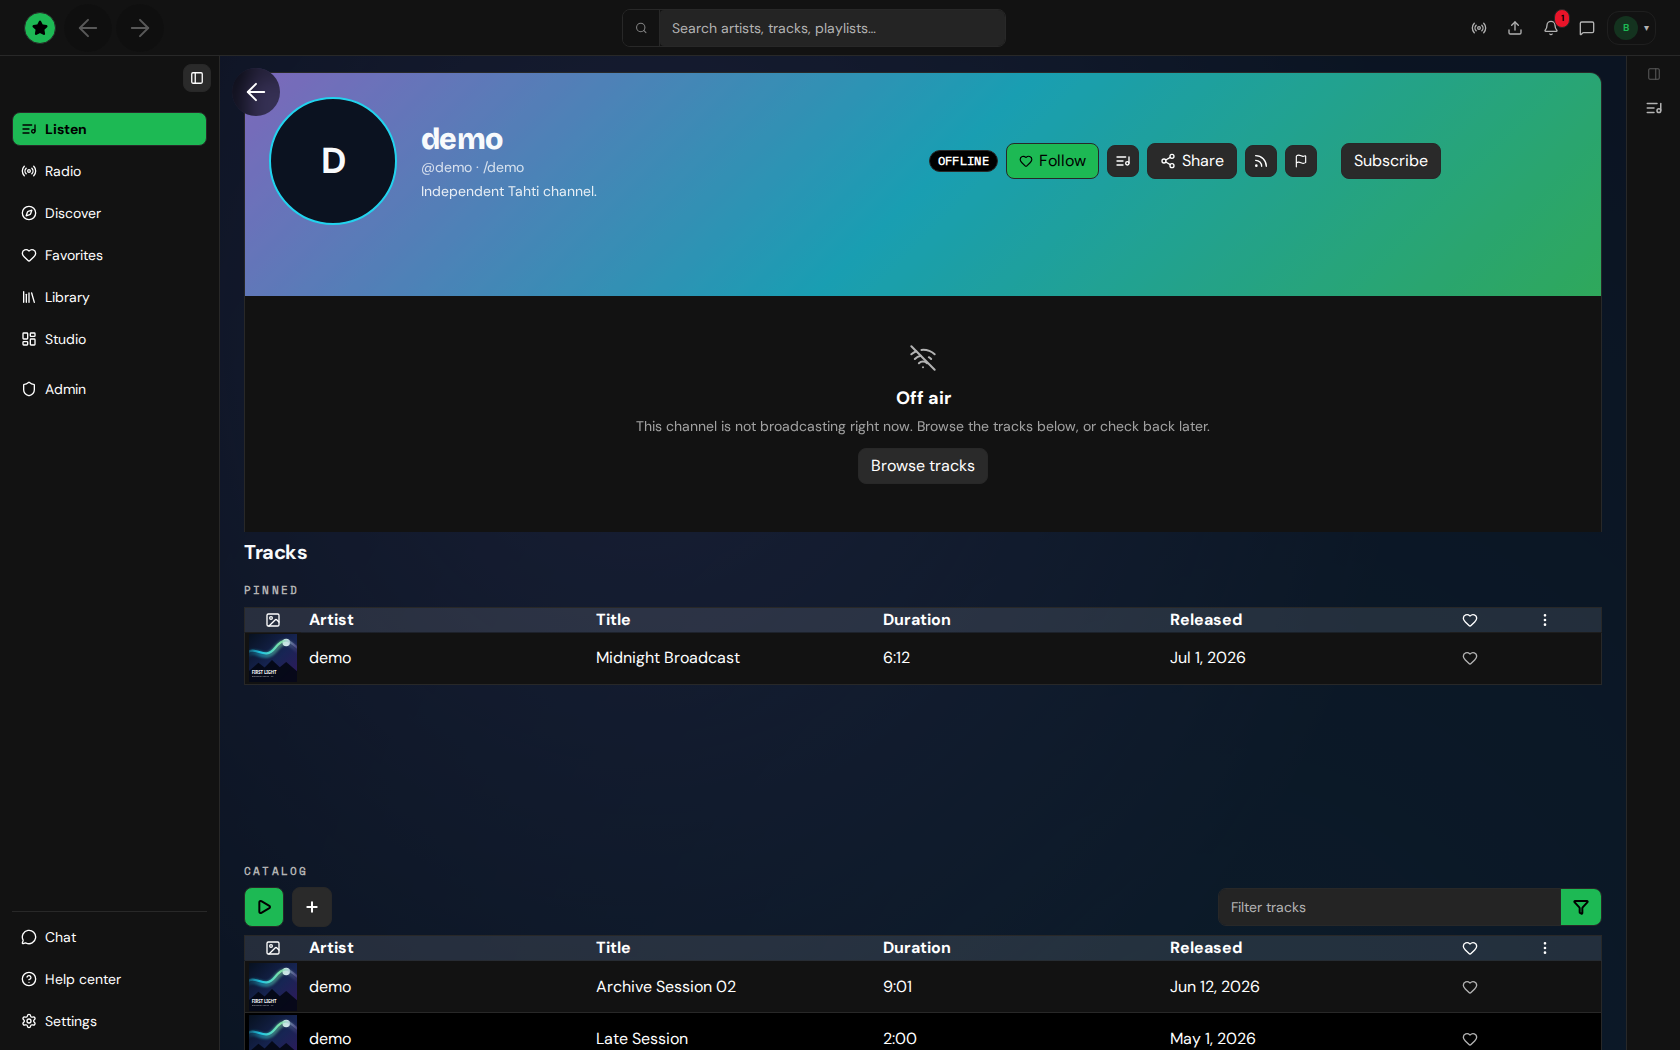
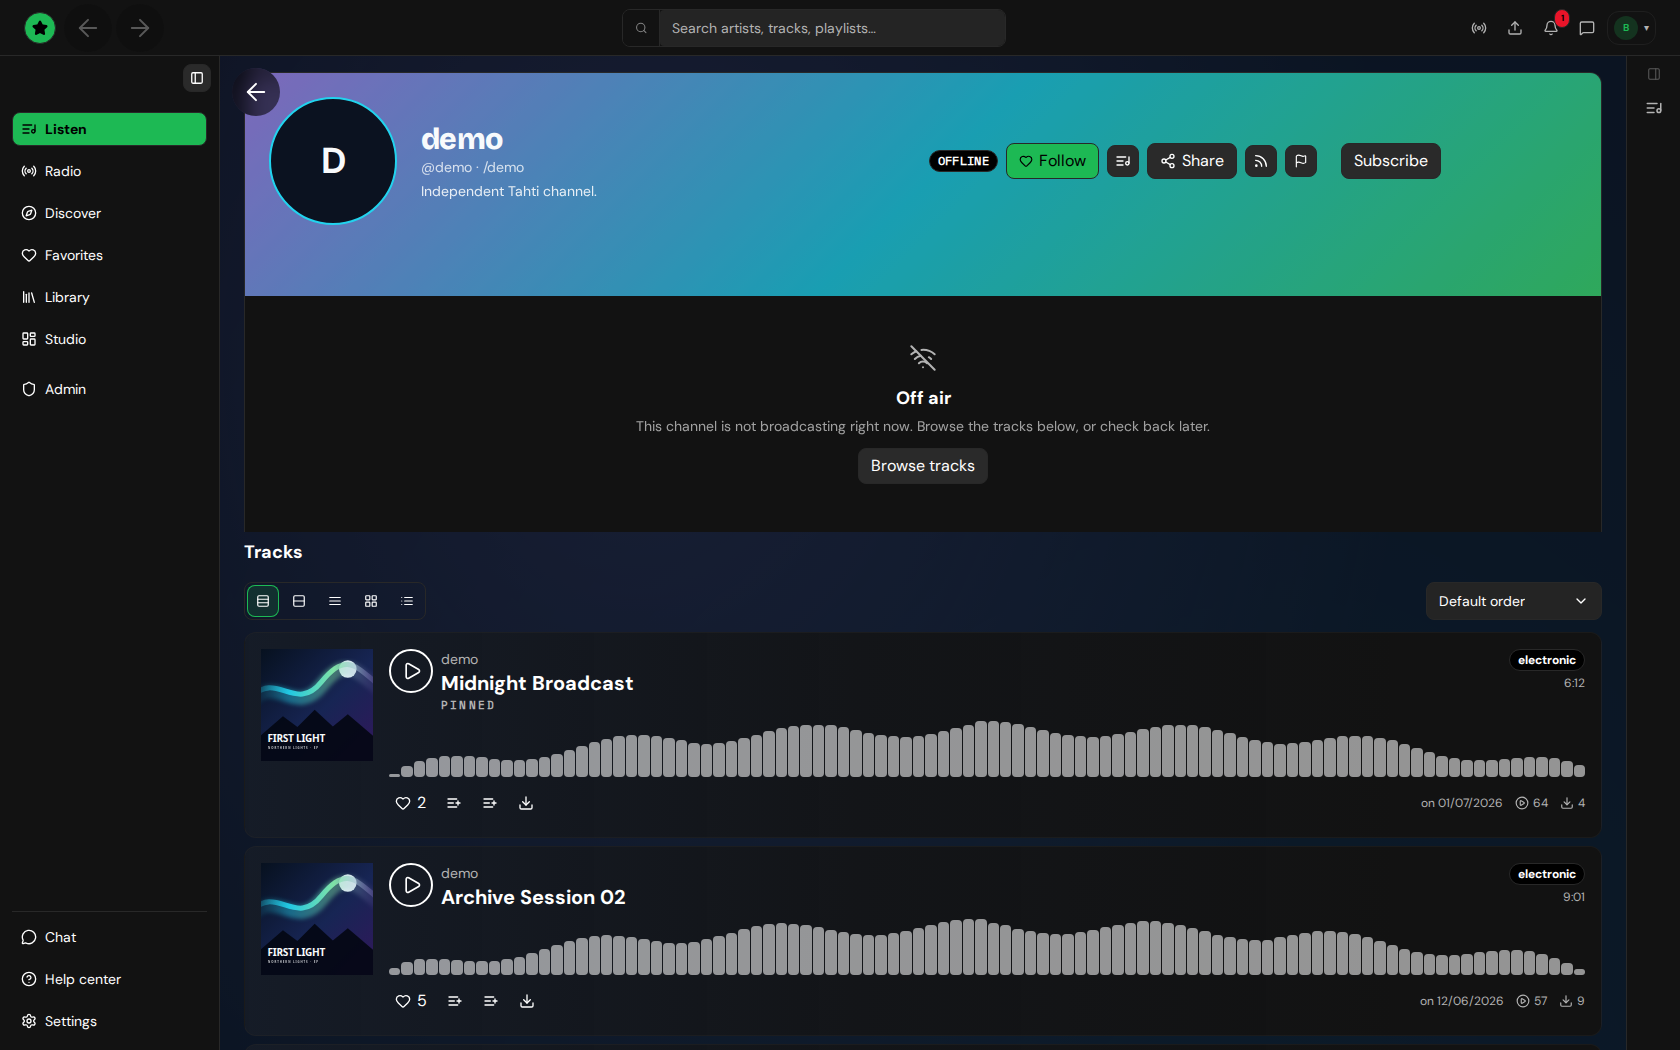
refactor(web): row likes reuse the sound engagement client (#1659)
* refactor(web): row likes reuse the sound engagement client

* fix(web): add-to-playlist gets its own + icon in track rows (#1665)

* docs(web): README shots show the new track rows (#1664)

---------

diff --git a/packages/tahti-web/src/stores/soundLikesStore.test.ts b/packages/tahti-web/src/stores/soundLikesStore.test.ts
@@ -1,0 +1,45 @@
+import { afterEach, describe, expect, it, vi } from 'vitest';
+
+import * as likes from '../api/likes';
+import * as engagement from '../api/sound-engagement';
+import { useSoundLikesStore } from './soundLikesStore';
+
+describe('soundLikesStore', () => {
+  afterEach(() => {
+    useSoundLikesStore.getState().reset();
+    vi.restoreAllMocks();
+  });
+
+  it('loads which tracks you loved once per sign-in', async () => {
+    const fetch = vi.spyOn(likes, 'fetchMyLikes').mockResolvedValue({
+      data: [{ id: 's1' } as likes.LikedTrack],
+      meta: { source: 'api' },
+    });
+    await useSoundLikesStore.getState().load('u1');
+    await useSoundLikesStore.getState().load('u1');
+    expect(fetch).toHaveBeenCalledTimes(1);
+    expect(useSoundLikesStore.getState().liked.has('s1')).toBe(true);
+  });
+
+  it('toggles through the sound engagement API and keeps the new count', async () => {
+    const set = vi
+      .spyOn(engagement, 'setSoundEngagement')
+      .mockResolvedValue({ ok: true, data: { active: true, count: 4 } });
+    expect(await useSoundLikesStore.getState().toggle('yaniho', 's2')).toBe(
+      null,
+    );
+    expect(set).toHaveBeenCalledWith('like', 'yaniho', 's2', true);
+    expect(useSoundLikesStore.getState().liked.has('s2')).toBe(true);
+    expect(useSoundLikesStore.getState().counts.s2).toBe(4);
+  });
+
+  it("answers the API's reason when it fails", async () => {
+    vi.spyOn(engagement, 'setSoundEngagement').mockResolvedValue({
+      ok: false,
+      error: 'Sign in to like tracks',
+    });
+    expect(await useSoundLikesStore.getState().toggle('yaniho', 's3')).toBe(
+      'Sign in to like tracks',
+    );
+  });
+});

diff --git a/packages/tahti-web/src/stores/soundLikesStore.ts b/packages/tahti-web/src/stores/soundLikesStore.ts
@@ -1,7 +1,7 @@
 import { create } from 'zustand';
 
 import { fetchMyLikes } from '../api/likes';
-import { setSoundLiked } from '../api/sound-likes';
+import { setSoundEngagement } from '../api/sound-engagement';
 
 type SoundLikesState = {
   /** Sound ids the signed-in listener liked, loaded once per sign-in. */
@@ -10,11 +10,7 @@ type SoundLikesState = {
   counts: Record<string, number>;
   loadedFor: string | null;
   load: (userId: string) => Promise<void>;
-  toggle: (
-    channelSlug: string,
-    soundId: string,
-    currentCount: number,
-  ) => Promise<string | null>;
+  toggle: (channelSlug: string, soundId: string) => Promise<string | null>;
   reset: () => void;
 };
 
@@ -30,26 +26,26 @@ export const useSoundLikesStore = create<SoundLikesState>((set, get) => ({
     const result = await fetchMyLikes();
     set({ liked: new Set(result.data.map((track) => track.id)) });
   },
-  toggle: async (channelSlug, soundId, currentCount) => {
+  toggle: async (channelSlug, soundId) => {
     const wasLiked = get().liked.has(soundId);
-    const result = await setSoundLiked(
+    const result = await setSoundEngagement(
+      'like',
       channelSlug,
       soundId,
       !wasLiked,
-      currentCount,
     );
     if (!result.ok) {
       return result.error;
     }
     const liked = new Set(get().liked);
-    if (result.data.liked) {
+    if (result.data.active) {
       liked.add(soundId);
     } else {
       liked.delete(soundId);
     }
     set({
       liked,
-      counts: { ...get().counts, [soundId]: result.data.likeCount },
+      counts: { ...get().counts, [soundId]: result.data.count },
     });
     return null;
   },

diff --git a/packages/tahti-web/src/components/PlayableAmbientTrackList.tsx b/packages/tahti-web/src/components/PlayableAmbientTrackList.tsx
@@ -1,10 +1,5 @@
 import { Link, useNavigate } from '@tanstack/react-router';
-import {
-  DownloadIcon,
-  ListPlusIcon,
-  PencilIcon,
-  TrashIcon,
-} from 'lucide-react';
+import { DownloadIcon, PencilIcon, PlusIcon, TrashIcon } from 'lucide-react';
 import { useEffect, useMemo, useState, type ReactNode } from 'react';
 import { toast } from 'sonner';
 
@@ -121,11 +116,7 @@ export function PlayableAmbientTrackList({
                 liked: likedIds.has(soundId),
                 count: likeCounts[soundId] ?? publicLikes,
                 onToggle: () => {
-                  void toggleLike(
-                    item.channelSlug!,
-                    soundId,
-                    likeCounts[soundId] ?? publicLikes,
-                  ).then((error) => {
+                  void toggleLike(item.channelSlug!, soundId).then((error) => {
                     if (error) {
                       toast.error(error);
                     }
@@ -191,7 +182,7 @@ export function PlayableAmbientTrackList({
                           id: 'add-to-playlist',
                           label: `Add ${item.title} to a playlist`,
                           title: 'Add to playlist',
-                          icon: <ListPlusIcon size={16} />,
+                          icon: <PlusIcon size={16} />,
                           onClick: () =>
                             setPlaylistTarget({ soundId, title: item.title }),
                         },

diff --git a/docs/VIEW-CATALOG.md b/docs/VIEW-CATALOG.md
@@ -47,7 +47,7 @@ desktop views were removed in 2026-10.
 | View                              | Route                     | File                            | Storybook | Candidate For                                                                                                                                |
 | --------------------------------- | ------------------------- | ------------------------------- | --------- | -------------------------------------------------------------------------------------------------------------------------------------------- |
 | [Artist Profile](#artist-profile) | `/u/$username`            | `src/views/ArtistView.tsx`      | No Story  | EntitySocialHeader, PlayableTrackTable, Tabs, CardGrid, GlowMediaTile                                                                                            |
-| [Channel](#channel)               | `/channel/$slug`          | `src/views/ChannelView.tsx`     | Has Story | ChannelBackdropCard, ChannelVisualizer, Tabs, FilterChips, StatChip, ChannelBlocksSection — 2 confirmed pill duplicates (lines 885, 1027), see sweep section below |
+| [Channel](#channel)               | `/channel/$slug`          | `src/views/ChannelView.tsx`     | Has Story | ChannelBackdropCard, ChannelVisualizer, Tabs, FilterChips, StatChip, ChannelBlocksSection; Tracks block = PlayableAmbientTrackList (reference rows: genre, waveform, love, playlist, download, stats) — 2 confirmed pill duplicates (lines 885, 1027), see sweep section below |
 | [Collection](#collection)         | `/u/$username/c/$slug`    | `src/views/CollectionView.tsx`  | No Story  | PlayableTrackTable, PageHeader                                                                                                               |
 | [Track Detail](#track-detail)     | `/t/$id`                  | `src/views/TrackDetailView.tsx` | Has Story | —                                                                                                                                            |
 | [Smart Link](#smart-link)         | `/r/$slug`                | `src/views/SmartLinkView.tsx`   | No Story  | PlayableTrackTable, PageHeader                                                                                                               |
